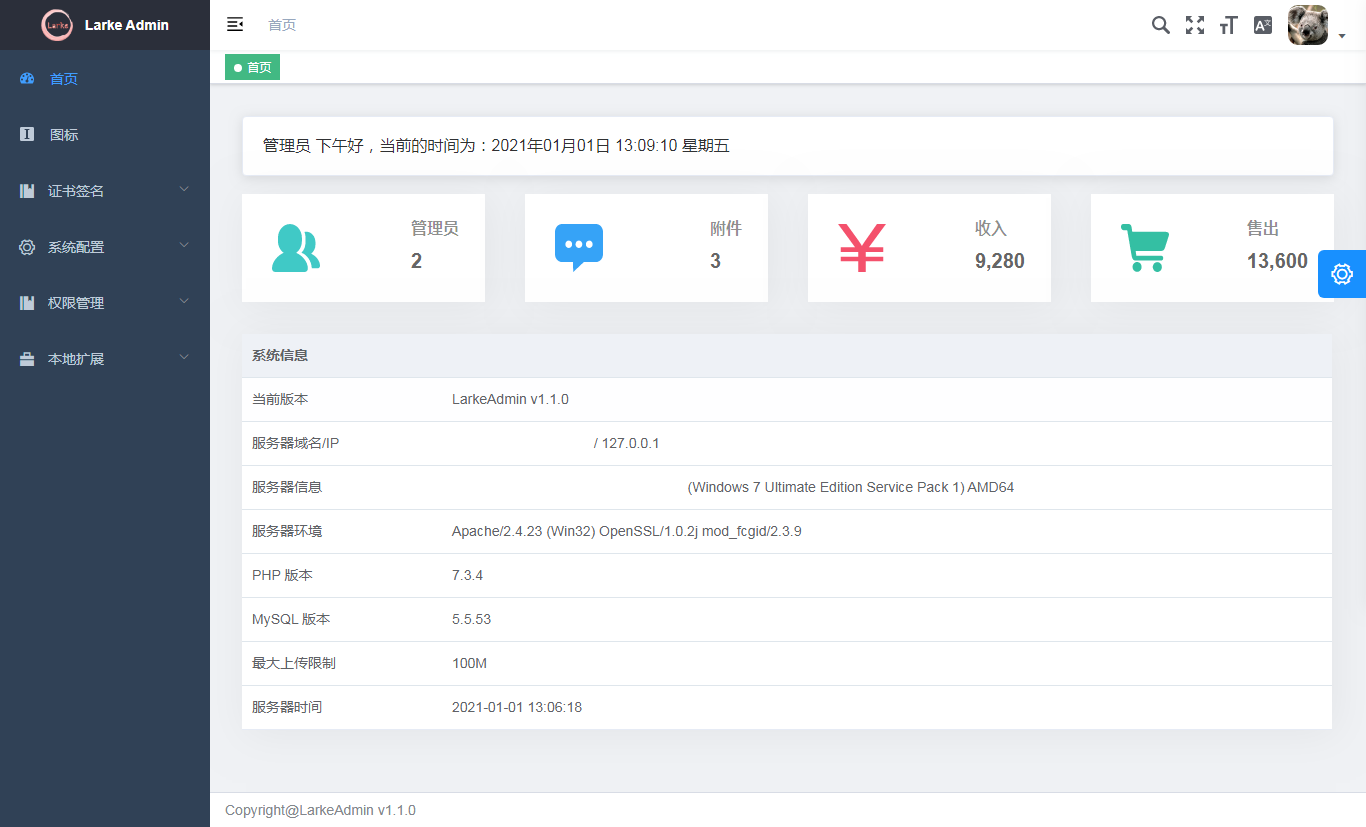
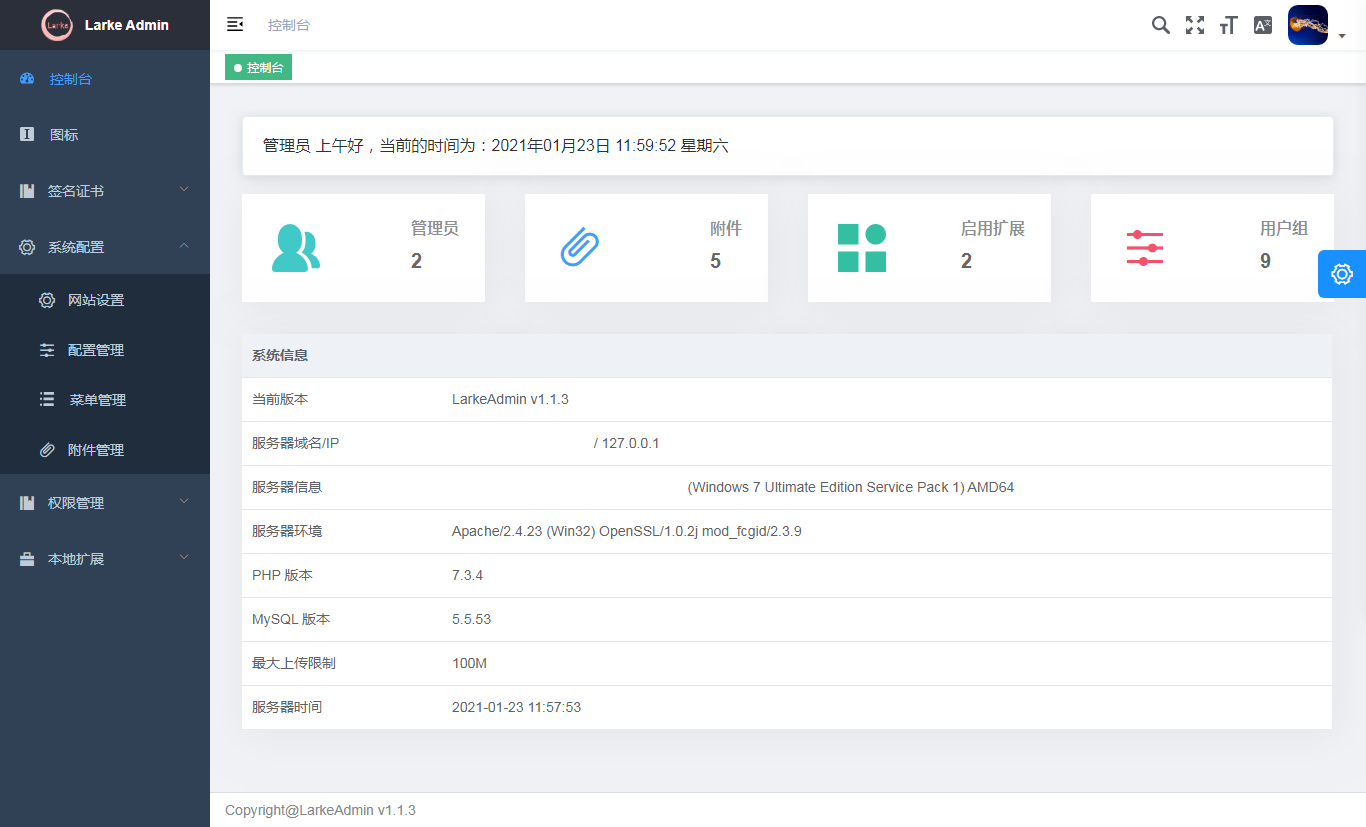
完善控制台信息展示

diff --git a/src/resource/assets/src/views/dashboard/admin/components/PanelGroup.vue b/src/resource/assets/src/views/dashboard/admin/components/PanelGroup.vue
@@ -20,8 +20,8 @@
     </el-col>
     <el-col :xs="12" :sm="12" :lg="6" class="card-panel-col">
       <div class="card-panel">
-        <div class="card-panel-icon-wrapper icon-message">
-          <svg-icon icon-class="message" class-name="card-panel-icon" />
+        <div class="card-panel-icon-wrapper icon-paperclip">
+          <i class="el-icon-paperclip card-panel-icon" />
         </div>
         <div class="card-panel-description">
           <div class="card-panel-text">
@@ -37,30 +37,38 @@
       </div>
     </el-col>
 
-    <!-- mock数据 -->
     <el-col :xs="12" :sm="12" :lg="6" class="card-panel-col">
-      <div class="card-panel" @click="handleSetLineChartData('purchases')">
-        <div class="card-panel-icon-wrapper icon-money">
-          <svg-icon icon-class="money" class-name="card-panel-icon" />
+      <div class="card-panel">
+        <div class="card-panel-icon-wrapper icon-component">
+          <svg-icon icon-class="component" class-name="card-panel-icon" />
         </div>
         <div class="card-panel-description">
           <div class="card-panel-text">
-            收入
+            启用扩展
           </div>
-          <count-to :start-val="0" :end-val="9280" :duration="3200" class="card-panel-num" />
+          <count-to 
+            :start-val="0" 
+            :end-val="extensions" 
+            :duration="3200" 
+            class="card-panel-num" />
         </div>
       </div>
     </el-col>
+
     <el-col :xs="12" :sm="12" :lg="6" class="card-panel-col">
-      <div class="card-panel" @click="handleSetLineChartData('shoppings')">
-        <div class="card-panel-icon-wrapper icon-shopping">
-          <svg-icon icon-class="shopping" class-name="card-panel-icon" />
+      <div class="card-panel">
+        <div class="card-panel-icon-wrapper icon-operation">
+          <i class="el-icon-s-operation card-panel-icon" />
         </div>
         <div class="card-panel-description">
           <div class="card-panel-text">
-            售出
+            用户组
           </div>
-          <count-to :start-val="0" :end-val="13600" :duration="3600" class="card-panel-num" />
+          <count-to 
+            :start-val="0" 
+            :end-val="groups" 
+            :duration="3600" 
+            class="card-panel-num" />
         </div>
       </div>
     </el-col>
@@ -71,6 +79,8 @@
 import CountTo from 'vue-count-to'
 import { getList as getAdminList } from '@/api/admin'
 import { getAttachmentList } from '@/api/attachment'
+import { getList as getExtensionList } from '@/api/extension'
+import { getGroupList } from '@/api/authGroup'
 
 export default {
   components: {
@@ -79,7 +89,9 @@ export default {
   data() {
     return {
       admins: 0,
-      attachments: 0
+      attachments: 0,
+      extensions: 0,
+      groups: 0,
     }
   },
   created() {
@@ -103,6 +115,23 @@ export default {
         limit: 0
       }).then(response => {
         thiz.attachments = response.data.total
+      })
+
+      // 启用扩展
+      getExtensionList({
+        status: 'open',
+        start: 1,
+        limit: 0
+      }).then(response => {
+        thiz.extensions = response.data.total
+      })
+
+      // 用户组
+      getGroupList({
+        start: 1,
+        limit: 0
+      }).then(response => {
+        thiz.groups = response.data.total
       })
     }
   }
@@ -137,16 +166,16 @@ export default {
         background: #40c9c6;
       }
 
-      .icon-message {
+      .icon-paperclip {
         background: #36a3f7;
       }
 
-      .icon-money {
-        background: #f4516c;
+      .icon-component {
+        background: #34bfa3;
       }
 
-      .icon-shopping {
-        background: #34bfa3
+      .icon-operation {
+        background: #f4516c;
       }
     }
 
@@ -154,16 +183,16 @@ export default {
       color: #40c9c6;
     }
 
-    .icon-message {
+    .icon-paperclip {
       color: #36a3f7;
     }
 
-    .icon-money {
-      color: #f4516c;
+    .icon-component {
+      color: #34bfa3;
     }
 
-    .icon-shopping {
-      color: #34bfa3
+    .icon-operation {
+      color: #f4516c;
     }
 
     .card-panel-icon-wrapper {

diff --git a/src/resource/assets/src/lang/en.js b/src/resource/assets/src/lang/en.js
@@ -1,68 +1,31 @@
 export default {
   route: {
     dashboard: 'Dashboard',
-    documentation: 'Documentation',
-    guide: 'Guide',
-    permission: 'Permission',
-    pagePermission: 'Page Permission',
-    rolePermission: 'Role Permission',
-    directivePermission: 'Directive Permission',
-    icons: 'Icons',
-    components: 'Components',
-    tinymce: 'Tinymce',
-    markdown: 'Markdown',
-    jsonEditor: 'JSON Editor',
-    dndList: 'Dnd List',
-    splitPane: 'SplitPane',
-    avatarUpload: 'Avatar Upload',
-    dropzone: 'Dropzone',
-    sticky: 'Sticky',
-    countTo: 'Count To',
-    componentMixin: 'Mixin',
-    backToTop: 'Back To Top',
-    dragDialog: 'Drag Dialog',
-    dragSelect: 'Drag Select',
-    dragKanban: 'Drag Kanban',
-    charts: 'Charts',
-    keyboardChart: 'Keyboard Chart',
-    lineChart: 'Line Chart',
-    mixChart: 'Mix Chart',
-    example: 'Example',
-    nested: 'Nested Routes',
-    menu1: 'Menu 1',
-    'menu1-1': 'Menu 1-1',
-    'menu1-2': 'Menu 1-2',
-    'menu1-2-1': 'Menu 1-2-1',
-    'menu1-2-2': 'Menu 1-2-2',
-    'menu1-3': 'Menu 1-3',
-    menu2: 'Menu 2',
-    Table: 'Table',
-    dynamicTable: 'Dynamic Table',
-    dragTable: 'Drag Table',
-    inlineEditTable: 'Inline Edit',
-    complexTable: 'Complex Table',
-    tab: 'Tab',
-    form: 'Form',
-    createArticle: 'Create Article',
-    editArticle: 'Edit Article',
-    articleList: 'Article List',
-    errorPages: 'Error Pages',
-    page401: '401',
-    page404: '404',
-    errorLog: 'Error Log',
-    excel: 'Excel',
-    exportExcel: 'Export Excel',
-    selectExcel: 'Export Selected',
-    mergeHeader: 'Merge Header',
-    uploadExcel: 'Upload Excel',
-    zip: 'Zip',
-    pdf: 'PDF',
-    exportZip: 'Export Zip',
-    theme: 'Theme',
-    clipboardDemo: 'Clipboard',
-    i18n: 'I18n',
-    externalLink: 'External Link',
-    profile: 'Profile'
+    profile: 'profile',
+    icons: 'icons',
+
+    System: 'System',
+    Setting: 'Setting',
+    Config: 'Config',
+    Menu: 'Menu',
+    Attachment: 'Attachment',
+
+    Permission: 'Permission',
+
+    Admin: 'Admin',
+    AdminIndex: 'AdminIndex',
+
+    AuthGroup: 'AuthGroup',
+    AuthGroupTree: 'AuthGroupTree',
+
+    AuthRule: 'AuthRule',
+    AuthRuleTree: 'AuthRuleTree',
+
+    AdminLog: 'AdminLog',
+
+    LocalExtension: 'LocalExtension',
+
+    Extension: 'Extension'
   },
   navbar: {
     dashboard: 'Dashboard',
@@ -79,9 +42,6 @@ export default {
     password: 'Password',
     captcha: 'Captcha',
     refresh_captcha: 'Refresh Captcha',
-    any: 'any',
-    thirdparty: 'Or connect with',
-    thirdpartyTips: 'Can not be simulated on local, so please combine you own business simulation! ! !'
   },
   documentation: {
     documentation: 'Documentation',
@@ -135,14 +95,6 @@ export default {
     delete: 'Delete',
     cancel: 'Cancel',
     confirm: 'Confirm'
-  },
-  example: {
-    warning: 'Creating and editing pages cannot be cached by keep-alive because keep-alive include does not currently support caching based on routes, so it is currently cached based on component name. If you want to achieve a similar caching effect, you can use a browser caching scheme such as localStorage. Or do not use keep-alive include to cache all pages directly. See details'
-  },
-  errorLog: {
-    tips: 'Please click the bug icon in the upper right corner',
-    description: 'Now the management system are basically the form of the spa, it enhances the user experience, but it also increases the possibility of page problems, a small negligence may lead to the entire page deadlock. Fortunately Vue provides a way to catch handling exceptions, where you can handle errors or report exceptions.',
-    documentation: 'Document introduction'
   },
   excel: {
     export: 'Export',

diff --git a/src/resource/assets/src/lang/zh.js b/src/resource/assets/src/lang/zh.js
@@ -1,18 +1,14 @@
 export default {
   route: {
-    dashboard: '首页',
+    dashboard: '控制台',
     profile: '我的信息',
     icons: '图标',
 
     System: '系统配置',
-
     Setting: '网站设置',
-
     Config: '配置管理',
-
-    Attachment: '附件管理',
-
     Menu: '菜单管理',
+    Attachment: '附件管理',
 
     Permission: '权限管理',
 
@@ -46,9 +42,6 @@ export default {
     password: '密码',
     captcha: '验证码',
     refresh_captcha: '刷新验证码',
-    any: '随便填',
-    thirdparty: '第三方登录',
-    thirdpartyTips: '本地不能模拟，请结合自己业务进行模拟！！！'
   },
   permission: {
     addRole: '新增角色',

diff --git a/src/resource/assets/src/views/dashboard/admin/index.vue b/src/resource/assets/src/views/dashboard/admin/index.vue
@@ -64,7 +64,7 @@ export default {
       var hour = dateObj.getHours()
       var minute = dateObj.getMinutes()
       var second = dateObj.getSeconds()
-      var timeValue = '' + ((hour >= 12) ? (hour >= 18) ? '晚上' : '下午' : '上午')
+      var timeValue = '' + ((hour >= 12) ? ((hour >= 18) ? '晚上' : '下午') : ((hour >= 8) ? '上午' : '凌晨'))
       var newDate = this.dateFilter(year) + '年' + this.dateFilter(month) + '月' + this.dateFilter(date) + '日 ' + ' ' + this.dateFilter(hour) + ':' + this.dateFilter(minute) + ':' + this.dateFilter(second)
       var nowTime = newDate + ' ' + week
       return [nowTime, timeValue]
